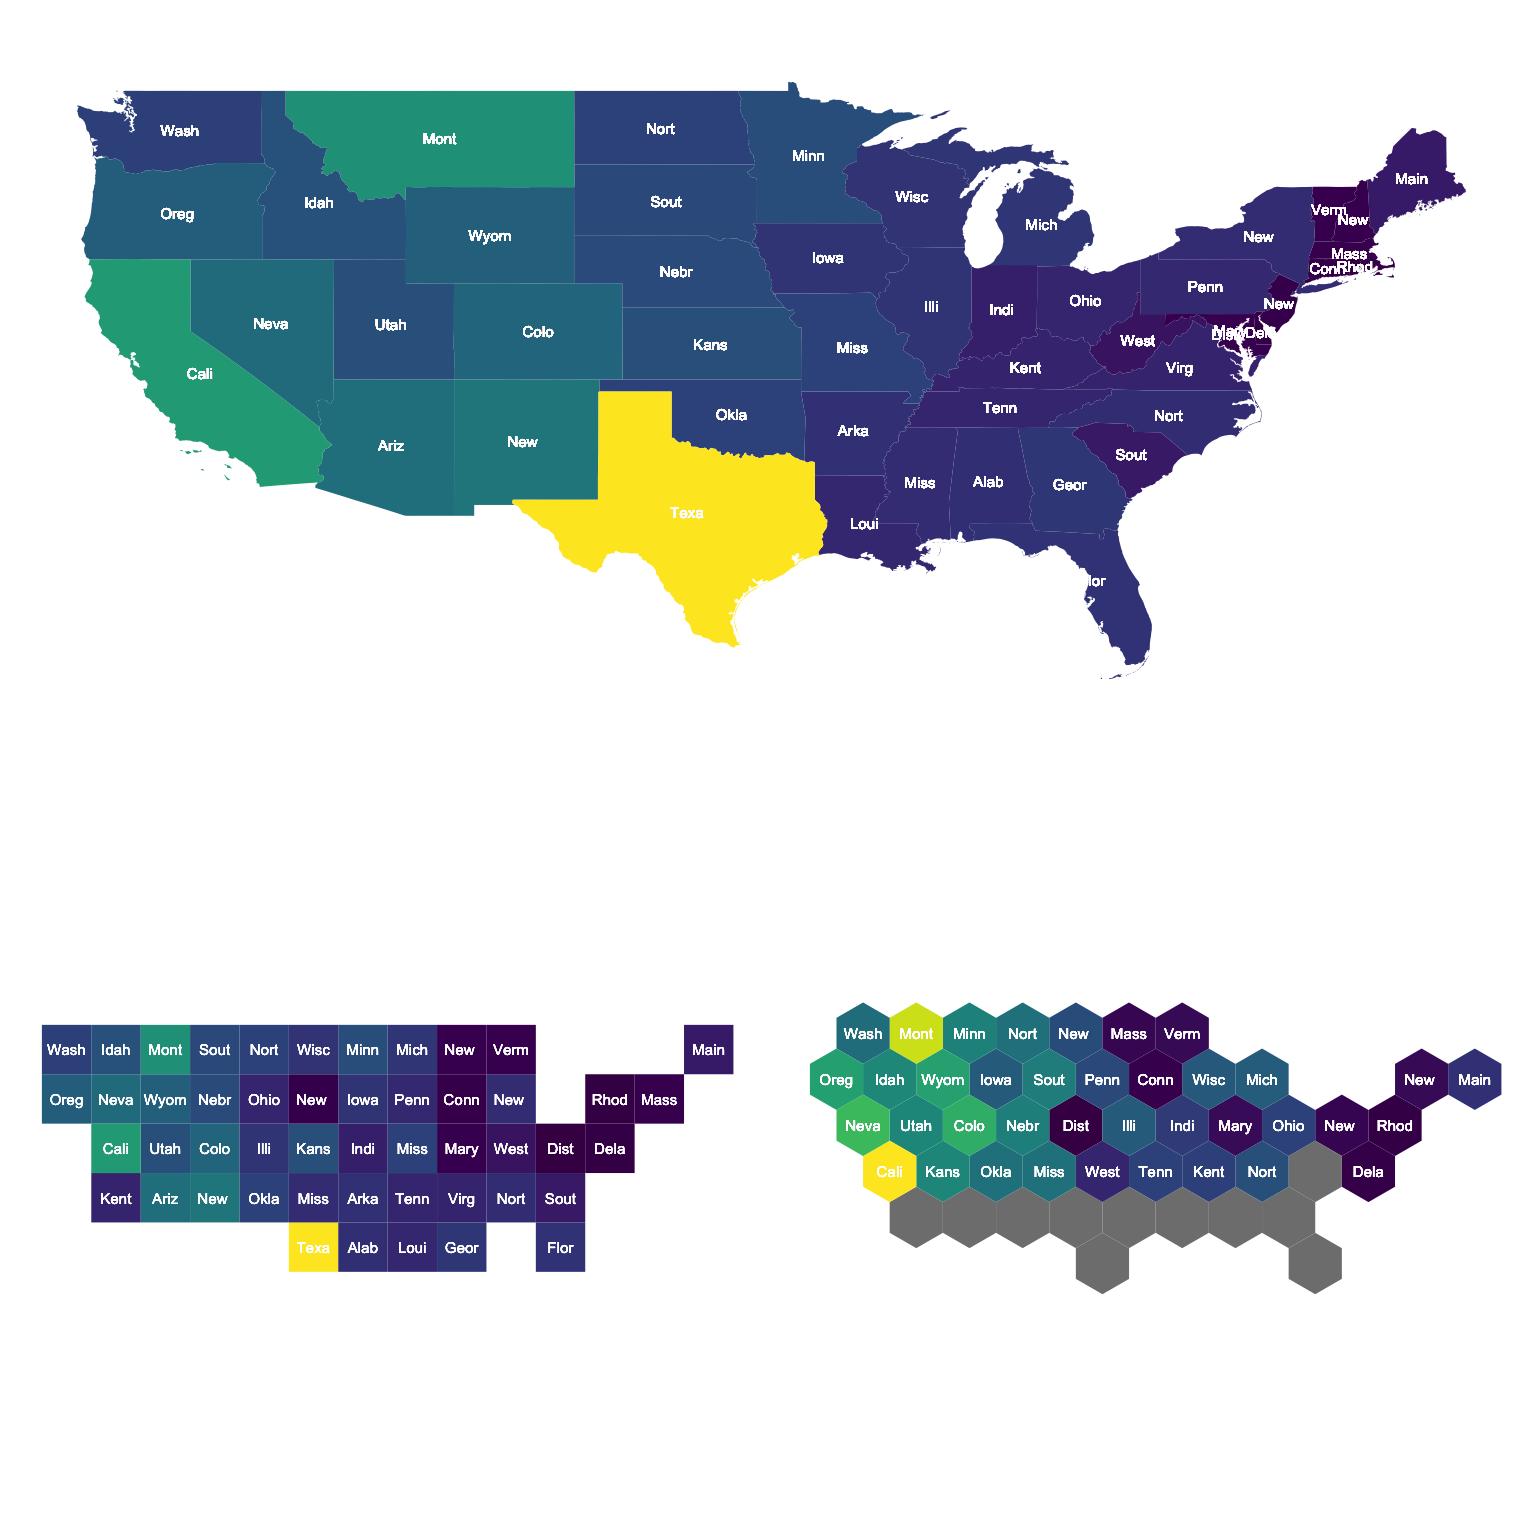
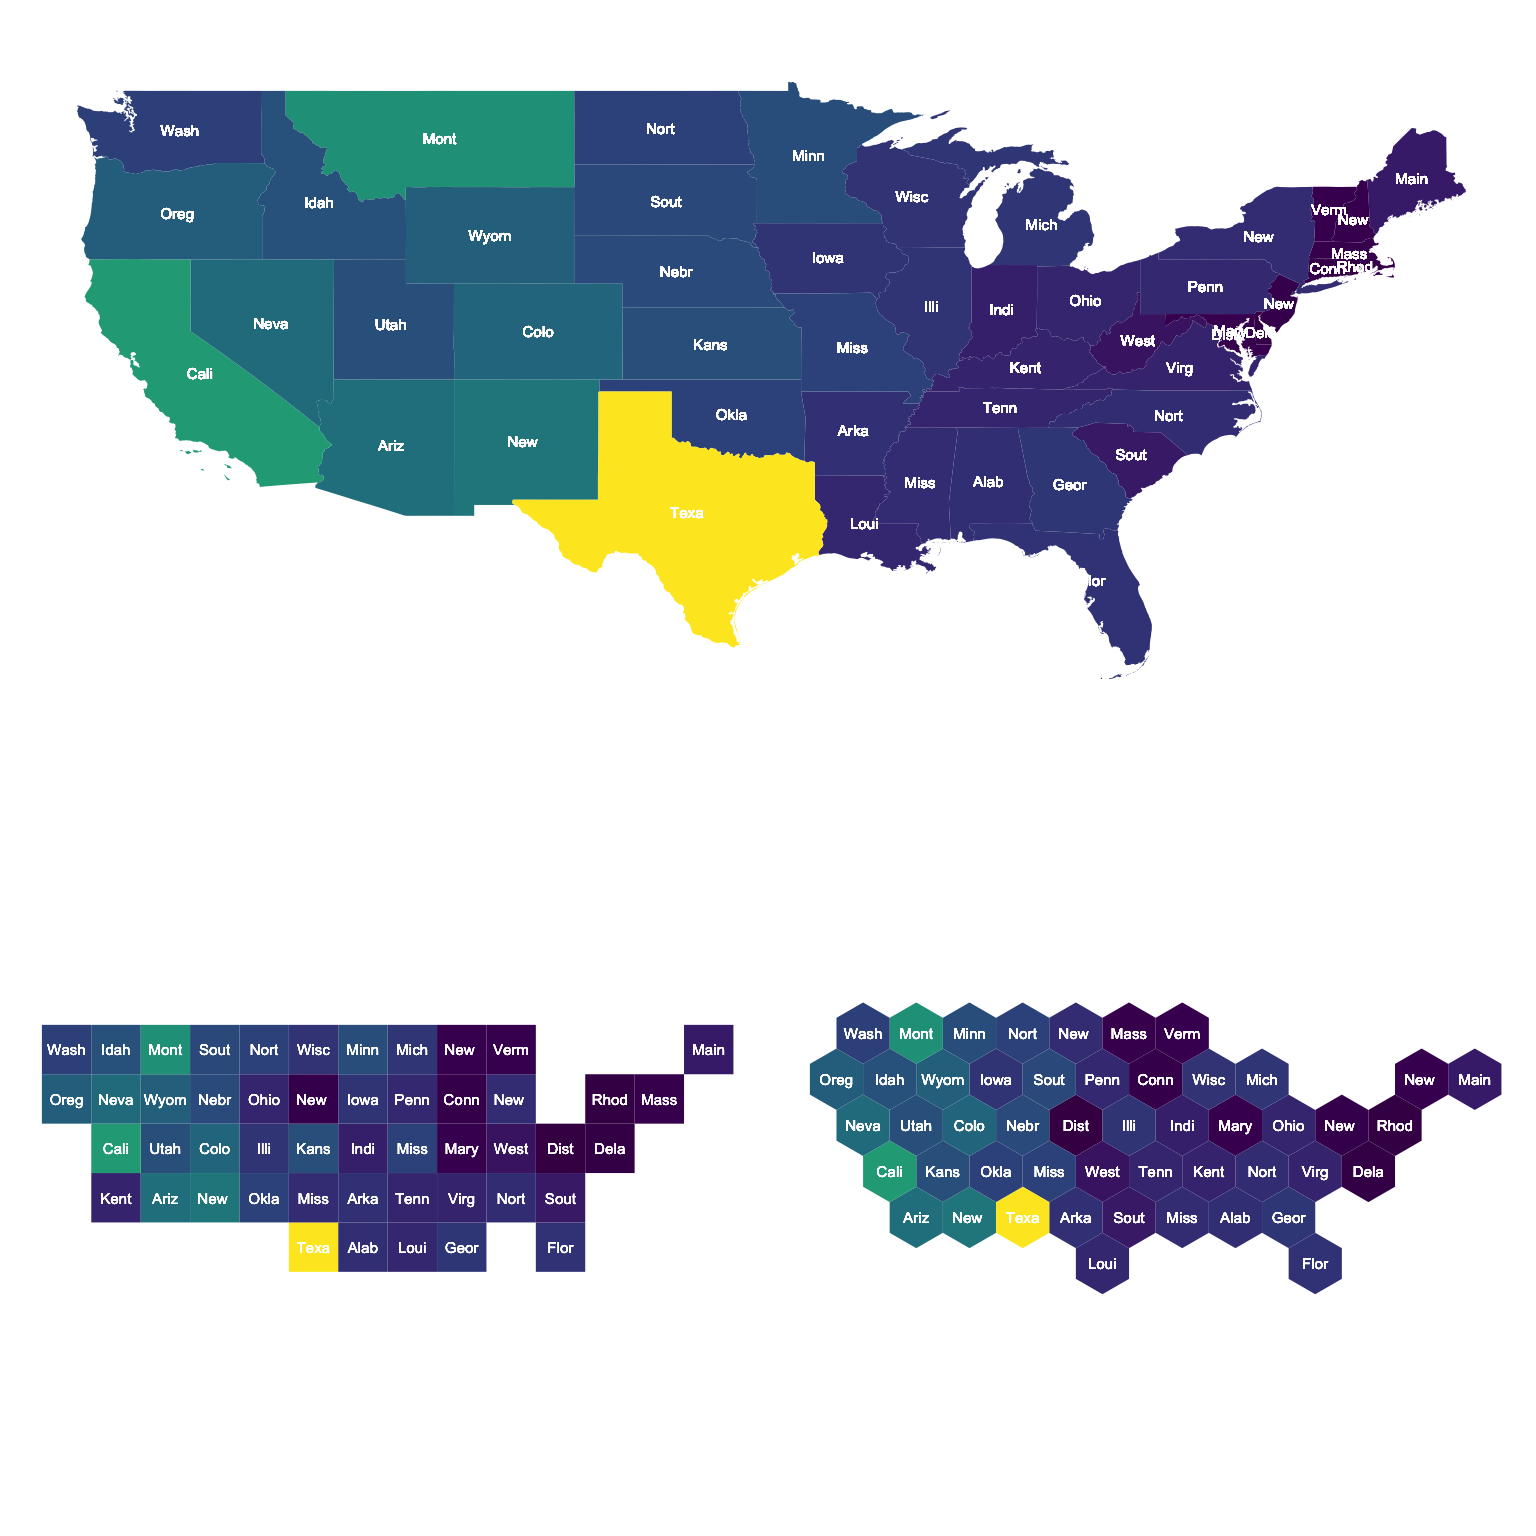
final commit before share

Changed region(s): [[0.5312, 0.6562, 0.875, 0.8438]]

diff --git a/README.md b/README.md
@@ -185,10 +185,10 @@ I welcome critique and feedback. Blog post to follow.
 Thanks
 ------
 
-I read a lot of the work by [Hadley Wickham](http://hadley.nz/), [Jenny Bryan](https://github.com/jennybc) and [Bob Rudis](https://github.com/hrbrmstr) to name a few. But also love the R community and learn a huge amount from [R Bloggers](https://www.r-bloggers.com/).
+I read a lot of the work by [Hadley Wickham](http://hadley.nz/), [Jenny Bryan](https://github.com/jennybc), [Thomas Lin Pedersen](https://www.data-imaginist.com/about/) and [Bob Rudis](https://github.com/hrbrmstr) to name a few. But also love the R community and learn a huge amount from [R Bloggers](https://www.r-bloggers.com/).
 
-Another example
-===============
+Other examples
+==============
 
 This time using the contiguous USA. Again, I used set seed and chose some that I liked but i'd reccomend you'd do the same.
 
@@ -209,13 +209,38 @@ rawplot <- ggplot(result_df_raw) +
   scale_fill_viridis() +
   guides(fill=FALSE) +
  theme_void()
+```
 
+Let's check the seeds again.
+
+``` r
+par(mfrow=c(2,3), mar = c(0,0,2,0))
+for (i in 1:6){
+new_cells <-  calculate_cell_size(original_shapes, original_details,0.03, 'hexagonal', i)
+plot(new_cells[[2]], main = paste("Seed",i, sep=" "))
+}
+```
+
+<img src="README_figs/README-example6-1.png" width="768" style="display: block; margin: auto;" />
+
+``` r
+par(mfrow=c(2,3), mar = c(0,0,2,0))
+for (i in 1:6){
+new_cells <-  calculate_cell_size(original_shapes, original_details,0.03, 'regular', i)
+plot(new_cells[[2]], main = paste("Seed",i, sep=" "))
+}
+```
+
+<img src="README_figs/README-example6a-1.png" width="768" style="display: block; margin: auto;" />
+
+Now we've seen some seed demo's lets assign them...
+
+``` r
 new_cells_hex <-  calculate_cell_size(original_shapes, original_details,0.03, 'hexagonal', 6)
 resulthex <- assign_polygons(original_shapes,new_cells_hex)
 
-new_cells_reg <-  calculate_cell_size(original_shapes, original_details,0.03, 'regular', 1)
+new_cells_reg <-  calculate_cell_size(original_shapes, original_details,0.03, 'regular', 4)
 resultreg <- assign_polygons(original_shapes,new_cells_reg)
-
 
 result_df_hex <- clean(resulthex)
 result_df_reg <- clean(resultreg)
@@ -239,4 +264,51 @@ regplot <- ggplot(result_df_reg) +
 grid.arrange(rawplot,regplot, hexplot, layout_matrix = rbind(c(1,1),c(2,3)))
 ```
 
-<img src="README_figs/README-example5-1.png" width="768" style="display: block; margin: auto;" />
+<img src="README_figs/README-example7-1.png" width="768" style="display: block; margin: auto;" />
+
+Likewise, you can try the bay area...
+
+``` r
+#In the working directory of the package.
+input_file <- rep("inst/extdata/bay_counties.geojson")
+original_shapes <- read_polygons(input_file)
+original_details <- get_shape_details(original_shapes)
+raw <- read_polygons(input_file)
+raw@data$xcentroid <- coordinates(raw)[,1]
+raw@data$ycentroid <- coordinates(raw)[,2]
+
+result_df_raw <- clean(raw)
+rawplot <- ggplot(result_df_raw) +
+  geom_polygon( aes(x=long, y=lat, group = group)) +
+  geom_text(aes(xcentroid, ycentroid, label = substr(county,1,4)), size=2,color = "white") +
+  coord_equal() +
+  guides(fill=FALSE) +
+ theme_void()
+
+new_cells_hex <-  calculate_cell_size(original_shapes, original_details,0.03, 'hexagonal', 6)
+resulthex <- assign_polygons(original_shapes,new_cells_hex)
+
+new_cells_reg <-  calculate_cell_size(original_shapes, original_details,0.03, 'regular', 1)
+resultreg <- assign_polygons(original_shapes,new_cells_reg)
+
+result_df_hex <- clean(resulthex)
+result_df_reg <- clean(resultreg)
+
+hexplot <- ggplot(result_df_hex) +
+  geom_polygon( aes(x=long, y=lat, group = group)) +
+  geom_text(aes(V1, V2, label = substr(county,1,4)), size=2,color = "white") +
+  coord_equal() +
+  guides(fill=FALSE) +
+ theme_void()
+
+regplot <- ggplot(result_df_reg) +
+  geom_polygon( aes(x=long, y=lat, group = group)) +
+  geom_text(aes(V1, V2, label = substr(county,1,4)), size=2,color = "white") +
+  coord_equal() +
+  guides(fill=FALSE) +
+ theme_void()
+
+grid.arrange(rawplot,regplot, hexplot, layout_matrix = rbind(c(1,1),c(2,3)))
+```
+
+<img src="README_figs/README-example8-1.png" width="768" style="display: block; margin: auto;" />
